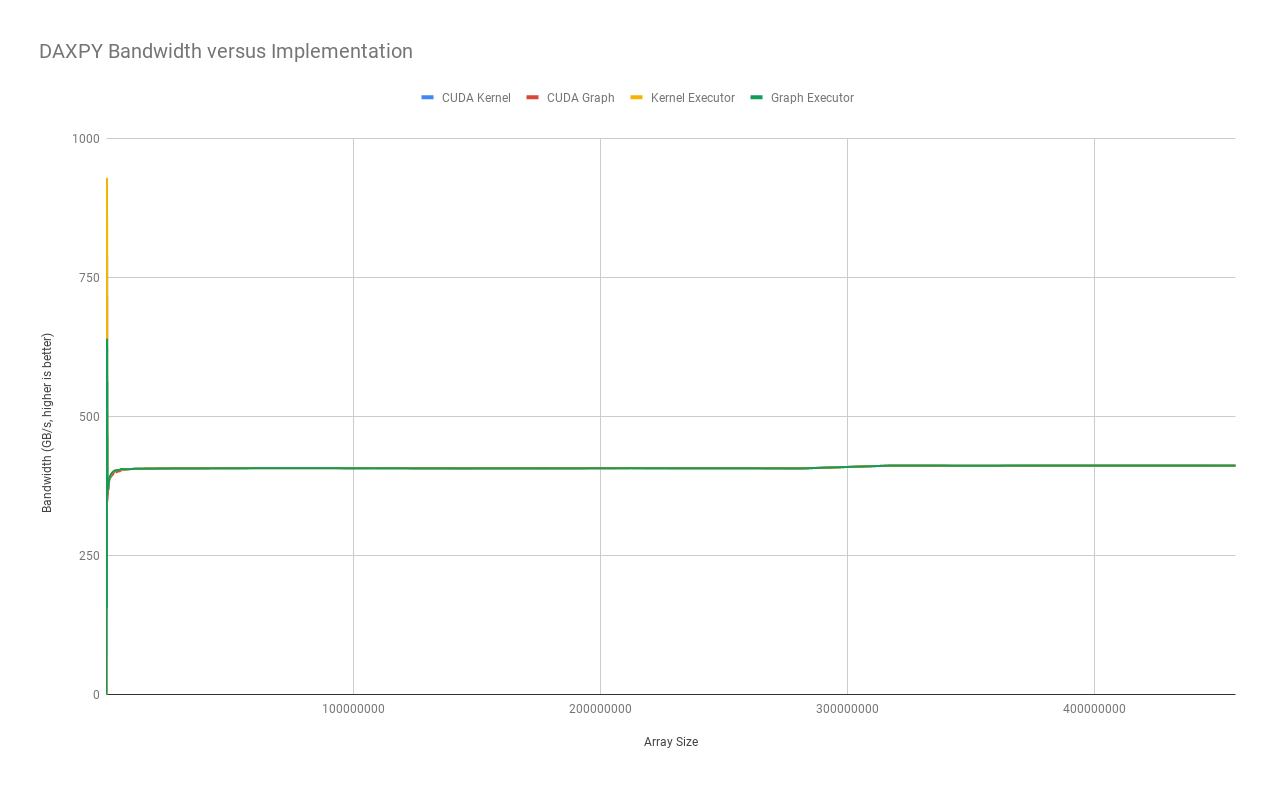
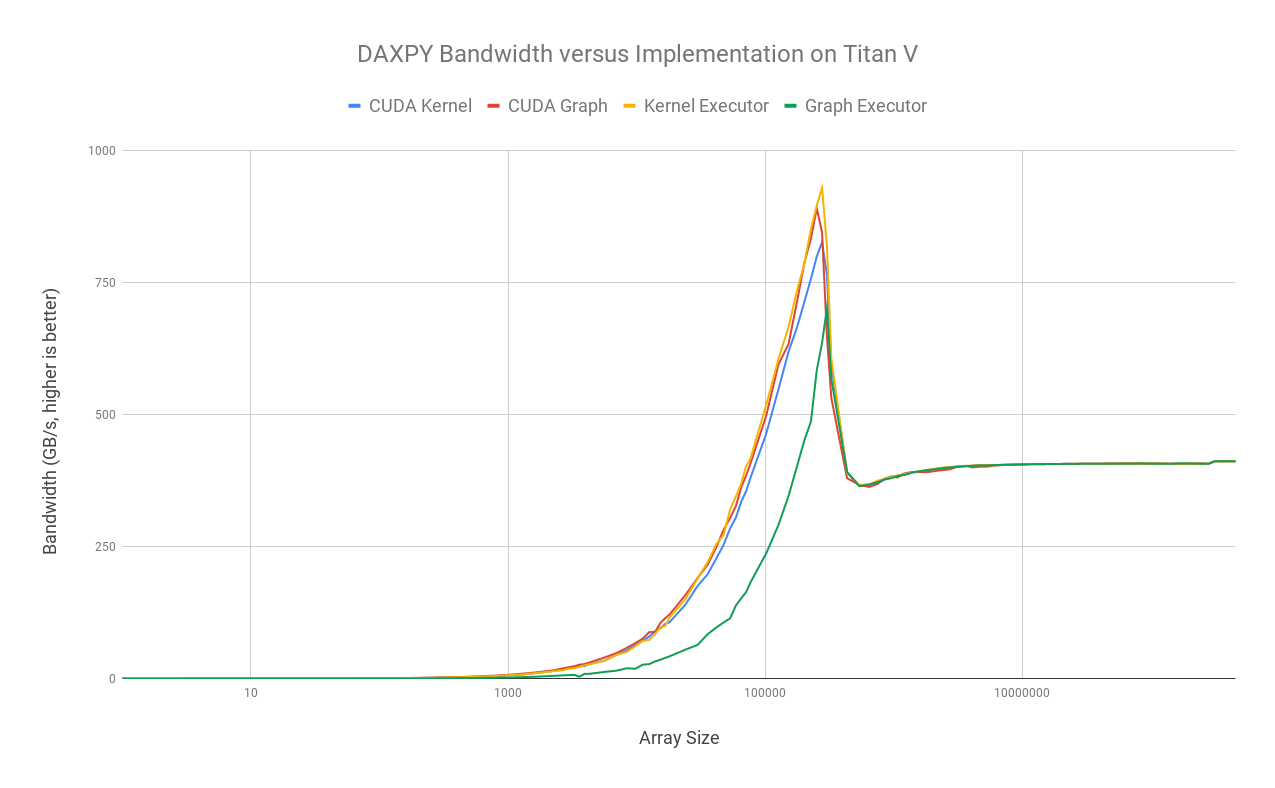
Update chart to use a log scale Write up the results

diff --git a/examples/daxpy/README.md b/examples/daxpy/README.md
@@ -1,0 +1,89 @@
+# QMCPACK ECP Deliverable 3
+
+Author: Jared Hoberock jhoberock@nvidia.com
+
+# Executive Summary
+
+This report assesses the effectiveness of the initial C++ executor prototypes
+delivered in Milestone 2 of ECP subcontract (4000164981). It demonstrates that
+the future-looking programming model represented by executors does not
+introduce a signficant performance penalty for a memory bandwidth-bound
+computational kernel (DAXPY) on large problem sizes. Finally, we identify
+avenues for improving the performance of our executor prototypes for small
+problem sizes.
+
+# Introduction
+
+Deliverable 2 of the QMCPACK ECP subcontract with NVIDIA is an initial
+C++-based prototype of a future-looking programming model that provides
+abstractions built around a CUDA Graphs-compatible infrastructure for optimized
+execution. *Executors* were chosen as the programmer-facing interface of this
+programming model, because executors are expected to arrive in a future C++
+standard and become a ubiquitous interface for creating execution in C++
+programs. Executors present the programmer with a regular and uniform interface
+for creating execution which hides idiosyncratic and platform-specific work
+creation mechanisms. Because programming abstractions sometimes result in a
+trade-off between efficiency and convenience, it is important to demonstrate
+that the executor prototypes delivered in Milestone 2 are not likely to result
+in performance penalties in QMCPACK.
+
+# Methodology
+
+We are interested in demonstrating that the efficiency of our executor
+prototypes is equivalent to the lower-level work creation mechanisms they
+abstract. For our purposes, there are two lower-level work creation mechanisms
+of interest:
+
+  1. CUDA kernels launched through the CUDA C++ "triple chevrons", and
+  2. CUDA kernels launched through the CUDA Graphs API.
+
+Milestone 2 delivered two executor prototypes abstracting these mechanisms:
+`kernel_executor` and `graph_executor`, respectively.
+
+To evaluate the efficiency of these executors, we chose to measure the achieved
+bandwidth of a simple vector addition kernel, DAXPY. Executors abstract the
+manner in which such a kernel is launched, but do not intrude upon the body of
+the kernel itself. Therefore, any performance overhead introduced by an
+executor will be incurred as part of the cost of launching the kernel.
+
+We implemented the DAXPY kernel using four implementation strategies:
+
+  1. as a CUDA kernel launched through the triple chevrons,
+  2. as a CUDA Graph,
+  3. via `kernel_executor`, and
+  4. via `graph_executor`.
+
+Each CUDA thread created by each of these strategies performs a single
+element-wise addition. Across a range of data set sizes, we measured the
+performance of each of these strategies by measuring the time spent executing
+one hundred evaluations of the kernel. Any time spent initializing resources
+was not included in this measurement.  Our experiments were executed on a Titan
+V GPU.
+
+# Results
+
+The following chart summarizes the efficiency of each implementation strategy.
+
+![Performance Results](daxpy_bandwidth_versus_implementation.png)
+
+For large problem sizes, each implementation strategy performs identically,
+with achieved memory bandwidth plateauing around 411 GB/s. However, for
+small problem sizes, the `graph_executor` is relatively inefficient until
+the array size grows to 300K elements. This is because the prototype's
+implementation conflates task submission with CUDA Graph creation and
+instantiation. Currently, CUDA Graph instantiation is significantly more
+expensive than CUDA kernel launch overhead, and this overhead dominates
+the performance of small kernels.
+
+# Future Work
+
+In order to be relevant to small kernels, the performance of our current
+`graph_executor` prototype must be accelerated by eliminating the cost of
+redundant graph instantiations. Fortunately, we expect this task to be
+straightforward. At least two approaches are possible: 1. by separating the act
+of creating and instantiating the underlying CUDA Graph or 2. by internally
+retaining the result of the initial instantiation. Either approach is viable,
+but each may have different ramifications on the programmer-facing
+executor interface.  We expect the experience gained through future
+project milestones to guide our approach.
+
